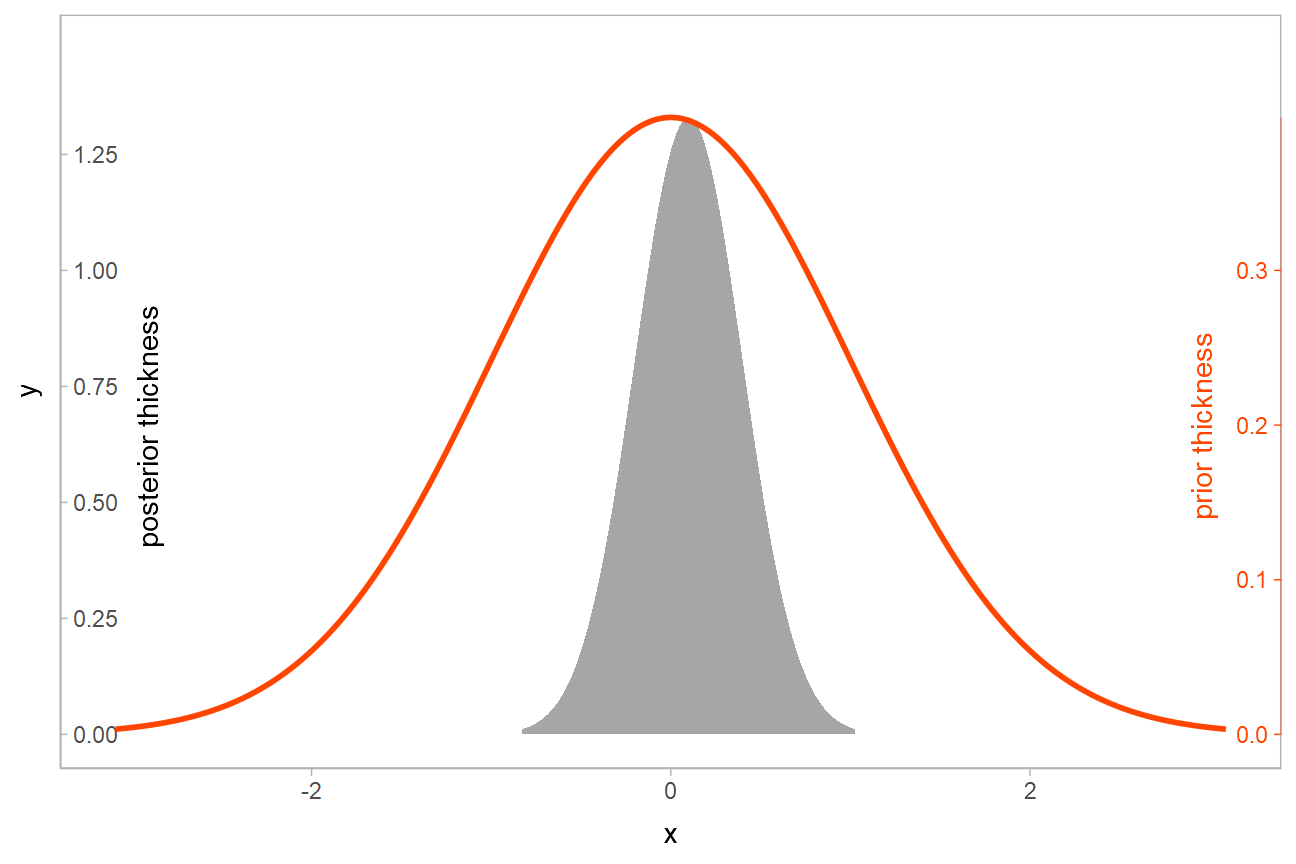
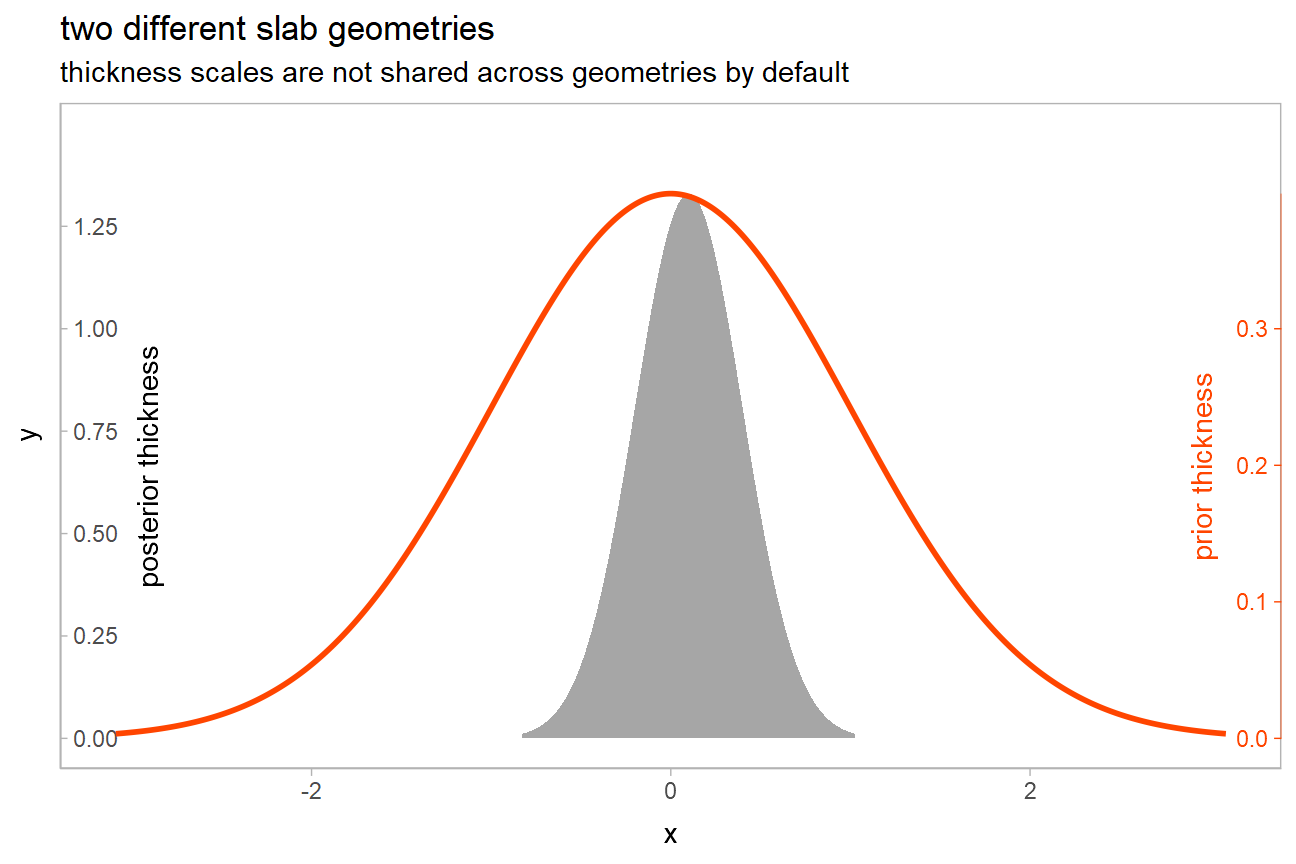
minor edits to thickness article

diff --git a/docs/articles/thickness.html b/docs/articles/thickness.html
@@ -164,12 +164,12 @@ slabs on the same plot, each with its own separate
 <code>thickness</code> subscale. For example:</p>
 <div class="sourceCode" id="cb2"><pre class="downlit sourceCode r">
 <code class="sourceCode R"><span><span class="va">df</span> <span class="op">=</span> <span class="fu"><a href="https://rdrr.io/r/base/data.frame.html" class="external-link">data.frame</a></span><span class="op">(</span></span>
-<span>  h <span class="op">=</span> <span class="fu"><a href="https://rdrr.io/r/base/c.html" class="external-link">c</a></span><span class="op">(</span><span class="fl">0</span>,<span class="fl">1</span>,<span class="fl">1</span>,<span class="fl">0</span>, <span class="fl">0</span>,<span class="fl">2</span>,<span class="fl">2</span>,<span class="fl">0</span>, <span class="fl">0</span>,<span class="fl">4</span><span class="op">/</span><span class="fl">3</span>,<span class="fl">4</span><span class="op">/</span><span class="fl">3</span>,<span class="fl">0</span>, <span class="fl">0</span>,<span class="fl">1</span>,<span class="fl">1</span>,<span class="fl">0</span>,     <span class="fl">0</span>,<span class="fl">1.25</span>,<span class="fl">1.25</span>,<span class="fl">0</span>, <span class="fl">0</span>,<span class="fl">.5</span>,<span class="fl">.5</span>,<span class="fl">0</span><span class="op">)</span>,</span>
-<span>  x <span class="op">=</span> <span class="fu"><a href="https://rdrr.io/r/base/c.html" class="external-link">c</a></span><span class="op">(</span><span class="fl">0</span>,<span class="fl">1</span>,<span class="fl">4</span>,<span class="fl">5</span>, <span class="fl">4</span>,<span class="fl">5</span>,<span class="fl">6</span>,<span class="fl">7</span>, <span class="fl">6</span>,<span class="fl">7</span>,<span class="fl">9</span>,<span class="fl">10</span>,    <span class="fl">11</span>,<span class="fl">12</span>,<span class="fl">15</span>,<span class="fl">16</span>, <span class="fl">1</span>,<span class="fl">2</span>,<span class="fl">4.2</span>,<span class="fl">5.2</span>,   <span class="fl">4</span>,<span class="fl">5</span>,<span class="fl">12</span>,<span class="fl">13</span><span class="op">)</span>,</span>
-<span>  y <span class="op">=</span>     <span class="fu"><a href="https://rdrr.io/r/base/rep.html" class="external-link">rep</a></span><span class="op">(</span><span class="fu"><a href="https://rdrr.io/r/base/c.html" class="external-link">c</a></span><span class="op">(</span><span class="st">"a"</span>, <span class="st">"b"</span>, <span class="st">"a"</span>, <span class="st">"a"</span>, <span class="st">"b"</span>, <span class="st">"a"</span><span class="op">)</span>, each <span class="op">=</span> <span class="fl">4</span><span class="op">)</span>,</span>
+<span>  h <span class="op">=</span> <span class="fu"><a href="https://rdrr.io/r/base/c.html" class="external-link">c</a></span><span class="op">(</span><span class="fl">0</span>,<span class="fl">1</span>,<span class="fl">1</span>,<span class="fl">0</span>, <span class="fl">0</span>,<span class="fl">2</span>,<span class="fl">2</span>,<span class="fl">0</span>, <span class="fl">0</span>,<span class="fl">4</span><span class="op">/</span><span class="fl">3</span>,<span class="fl">4</span><span class="op">/</span><span class="fl">3</span>,<span class="fl">0</span>,  <span class="fl">0</span>,<span class="fl">1</span>,<span class="fl">1</span>,<span class="fl">0</span>,     <span class="fl">0</span>,<span class="fl">1.25</span>,<span class="fl">1.25</span>,<span class="fl">0</span>, <span class="fl">0</span>,<span class="fl">.5</span>,<span class="fl">.5</span>,<span class="fl">0</span><span class="op">)</span>,</span>
+<span>  x <span class="op">=</span> <span class="fu"><a href="https://rdrr.io/r/base/c.html" class="external-link">c</a></span><span class="op">(</span><span class="fl">0</span>,<span class="fl">1</span>,<span class="fl">4</span>,<span class="fl">5</span>, <span class="fl">4</span>,<span class="fl">5</span>,<span class="fl">6</span>,<span class="fl">7</span>, <span class="fl">6</span>,<span class="fl">7</span>,<span class="fl">9</span>,<span class="fl">10</span>,     <span class="fl">11</span>,<span class="fl">12</span>,<span class="fl">15</span>,<span class="fl">16</span>, <span class="fl">1</span>,<span class="fl">2</span>,<span class="fl">4.2</span>,<span class="fl">5.2</span>,   <span class="fl">4</span>,<span class="fl">5</span>,<span class="fl">12</span>,<span class="fl">13</span><span class="op">)</span>,</span>
+<span>  y     <span class="op">=</span> <span class="fu"><a href="https://rdrr.io/r/base/rep.html" class="external-link">rep</a></span><span class="op">(</span><span class="fu"><a href="https://rdrr.io/r/base/c.html" class="external-link">c</a></span><span class="op">(</span><span class="st">"a"</span>, <span class="st">"b"</span>, <span class="st">"a"</span>, <span class="st">"a"</span>, <span class="st">"b"</span>, <span class="st">"a"</span><span class="op">)</span>, each <span class="op">=</span> <span class="fl">4</span><span class="op">)</span>,</span>
 <span>  group <span class="op">=</span> <span class="fu"><a href="https://rdrr.io/r/base/rep.html" class="external-link">rep</a></span><span class="op">(</span><span class="fu"><a href="https://rdrr.io/r/base/c.html" class="external-link">c</a></span><span class="op">(</span><span class="st">"c"</span>, <span class="st">"c"</span>, <span class="st">"d"</span>, <span class="st">"d"</span>, <span class="st">"c"</span>, <span class="st">"c"</span><span class="op">)</span>, each <span class="op">=</span> <span class="fl">4</span><span class="op">)</span>,</span>
 <span>  panel <span class="op">=</span> <span class="fu"><a href="https://rdrr.io/r/base/rep.html" class="external-link">rep</a></span><span class="op">(</span><span class="fu"><a href="https://rdrr.io/r/base/c.html" class="external-link">c</a></span><span class="op">(</span><span class="st">"e"</span>, <span class="st">"e"</span>, <span class="st">"e"</span>, <span class="st">"e"</span>, <span class="st">"f"</span>, <span class="st">"f"</span><span class="op">)</span>, each <span class="op">=</span> <span class="fl">4</span><span class="op">)</span>,</span>
-<span>  name  <span class="op">=</span> <span class="fu"><a href="https://rdrr.io/r/base/rep.html" class="external-link">rep</a></span><span class="op">(</span><span class="fu"><a href="https://rdrr.io/r/base/c.html" class="external-link">c</a></span><span class="op">(</span><span class="fl">1</span>,<span class="fl">2</span>,<span class="st">"3a"</span>,<span class="st">"3b"</span>,<span class="fl">4</span>,<span class="fl">5</span><span class="op">)</span>, each <span class="op">=</span> <span class="fl">4</span><span class="op">)</span></span>
+<span>  name  <span class="op">=</span> <span class="fu"><a href="https://rdrr.io/r/base/rep.html" class="external-link">rep</a></span><span class="op">(</span><span class="fu"><a href="https://rdrr.io/r/base/c.html" class="external-link">c</a></span><span class="op">(</span> <span class="fl">1</span>,   <span class="fl">2</span>, <span class="st">"3a"</span>,<span class="st">"3b"</span>,  <span class="fl">4</span>,   <span class="fl">5</span> <span class="op">)</span>, each <span class="op">=</span> <span class="fl">4</span><span class="op">)</span></span>
 <span><span class="op">)</span></span>
 <span></span>
 <span><span class="va">df_group</span> <span class="op">=</span> <span class="va">df</span> <span class="op"><a href="https://magrittr.tidyverse.org/reference/pipe.html" class="external-link">%&gt;%</a></span></span>
@@ -408,14 +408,22 @@ their thickness scales annotated:</p>
 <span>  <span class="fu"><a href="https://ggplot2.tidyverse.org/reference/scale_continuous.html" class="external-link">scale_y_continuous</a></span><span class="op">(</span>breaks <span class="op">=</span> <span class="cn">NULL</span><span class="op">)</span> <span class="op">+</span></span>
 <span>  <span class="fu"><a href="https://ggplot2.tidyverse.org/reference/theme.html" class="external-link">theme</a></span><span class="op">(</span>panel.background <span class="op">=</span> <span class="fu"><a href="https://ggplot2.tidyverse.org/reference/element.html" class="external-link">element_rect</a></span><span class="op">(</span>color <span class="op">=</span> <span class="st">"gray70"</span>, fill <span class="op">=</span> <span class="cn">NA</span><span class="op">)</span><span class="op">)</span></span>
 <span></span>
-<span><span class="va">prior_post_plot</span></span></code></pre></div>
+<span><span class="va">prior_post_plot</span> <span class="op">+</span></span>
+<span>  <span class="fu"><a href="https://ggplot2.tidyverse.org/reference/labs.html" class="external-link">labs</a></span><span class="op">(</span></span>
+<span>    title <span class="op">=</span> <span class="st">"two different slab geometries"</span>,</span>
+<span>    subtitle <span class="op">=</span> <span class="st">"thickness scales are not shared across geometries by default"</span></span>
+<span>  <span class="op">)</span></span></code></pre></div>
 <p><img src="thickness_files/figure-html/prior_post-1.png" width="648"></p>
 <p>Notice how the two geometries have different <code>thickness</code>
 scales. If we add <code><a href="../reference/scale_thickness.html">scale_thickness_shared()</a></code> to the plot,
 they will be given the same scale:</p>
 <div class="sourceCode" id="cb10"><pre class="downlit sourceCode r">
 <code class="sourceCode R"><span><span class="va">prior_post_plot</span> <span class="op">+</span></span>
-<span>  <span class="fu"><a href="../reference/scale_thickness.html">scale_thickness_shared</a></span><span class="op">(</span><span class="op">)</span></span></code></pre></div>
+<span>  <span class="fu"><a href="../reference/scale_thickness.html">scale_thickness_shared</a></span><span class="op">(</span><span class="op">)</span> <span class="op">+</span></span>
+<span>  <span class="fu"><a href="https://ggplot2.tidyverse.org/reference/labs.html" class="external-link">labs</a></span><span class="op">(</span></span>
+<span>    title <span class="op">=</span> <span class="st">"two different slab geometries"</span>,</span>
+<span>    subtitle <span class="op">=</span> <span class="st">"using scale_thickness_shared() to share thickness scale across geometries"</span></span>
+<span>  <span class="op">)</span></span></code></pre></div>
 <p><img src="thickness_files/figure-html/prior_post_shared-1.png" width="648"></p>
 <p><code>scaled_thickness_shared()</code> works by scaling values and
 then tagging them with a special <code><a href="../reference/scale_thickness.html">thickness()</a></code> datatype. That
@@ -574,7 +582,11 @@ plots:</p>
 <span>  y <span class="op">=</span> <span class="va">letters</span><span class="op">[</span><span class="fl">1</span><span class="op">:</span><span class="fl">10</span><span class="op">]</span></span>
 <span><span class="op">)</span> <span class="op"><a href="https://magrittr.tidyverse.org/reference/pipe.html" class="external-link">%&gt;%</a></span></span>
 <span>  <span class="fu"><a href="https://ggplot2.tidyverse.org/reference/ggplot.html" class="external-link">ggplot</a></span><span class="op">(</span><span class="fu"><a href="https://ggplot2.tidyverse.org/reference/aes.html" class="external-link">aes</a></span><span class="op">(</span>xdist <span class="op">=</span> <span class="va">d</span>, y <span class="op">=</span> <span class="va">y</span><span class="op">)</span><span class="op">)</span> <span class="op">+</span></span>
-<span>  <span class="fu"><a href="../reference/stat_slab.html">stat_slab</a></span><span class="op">(</span>height <span class="op">=</span> <span class="fl">3</span>, color <span class="op">=</span> <span class="st">"gray25"</span><span class="op">)</span></span></code></pre></div>
+<span>  <span class="fu"><a href="../reference/stat_slab.html">stat_slab</a></span><span class="op">(</span>height <span class="op">=</span> <span class="fl">3</span>, color <span class="op">=</span> <span class="st">"gray25"</span><span class="op">)</span> <span class="op">+</span></span>
+<span>  <span class="fu"><a href="https://ggplot2.tidyverse.org/reference/labs.html" class="external-link">labs</a></span><span class="op">(</span></span>
+<span>    title <span class="op">=</span> <span class="st">"geom_slab()"</span>,</span>
+<span>    subtitle <span class="op">=</span> <span class="st">"using height &gt; 1 to create ridgeline plots"</span></span>
+<span>  <span class="op">)</span></span></code></pre></div>
 <p><img src="thickness_files/figure-html/ridgeline-1.png" width="648"></p>
 </div>
 </div>
